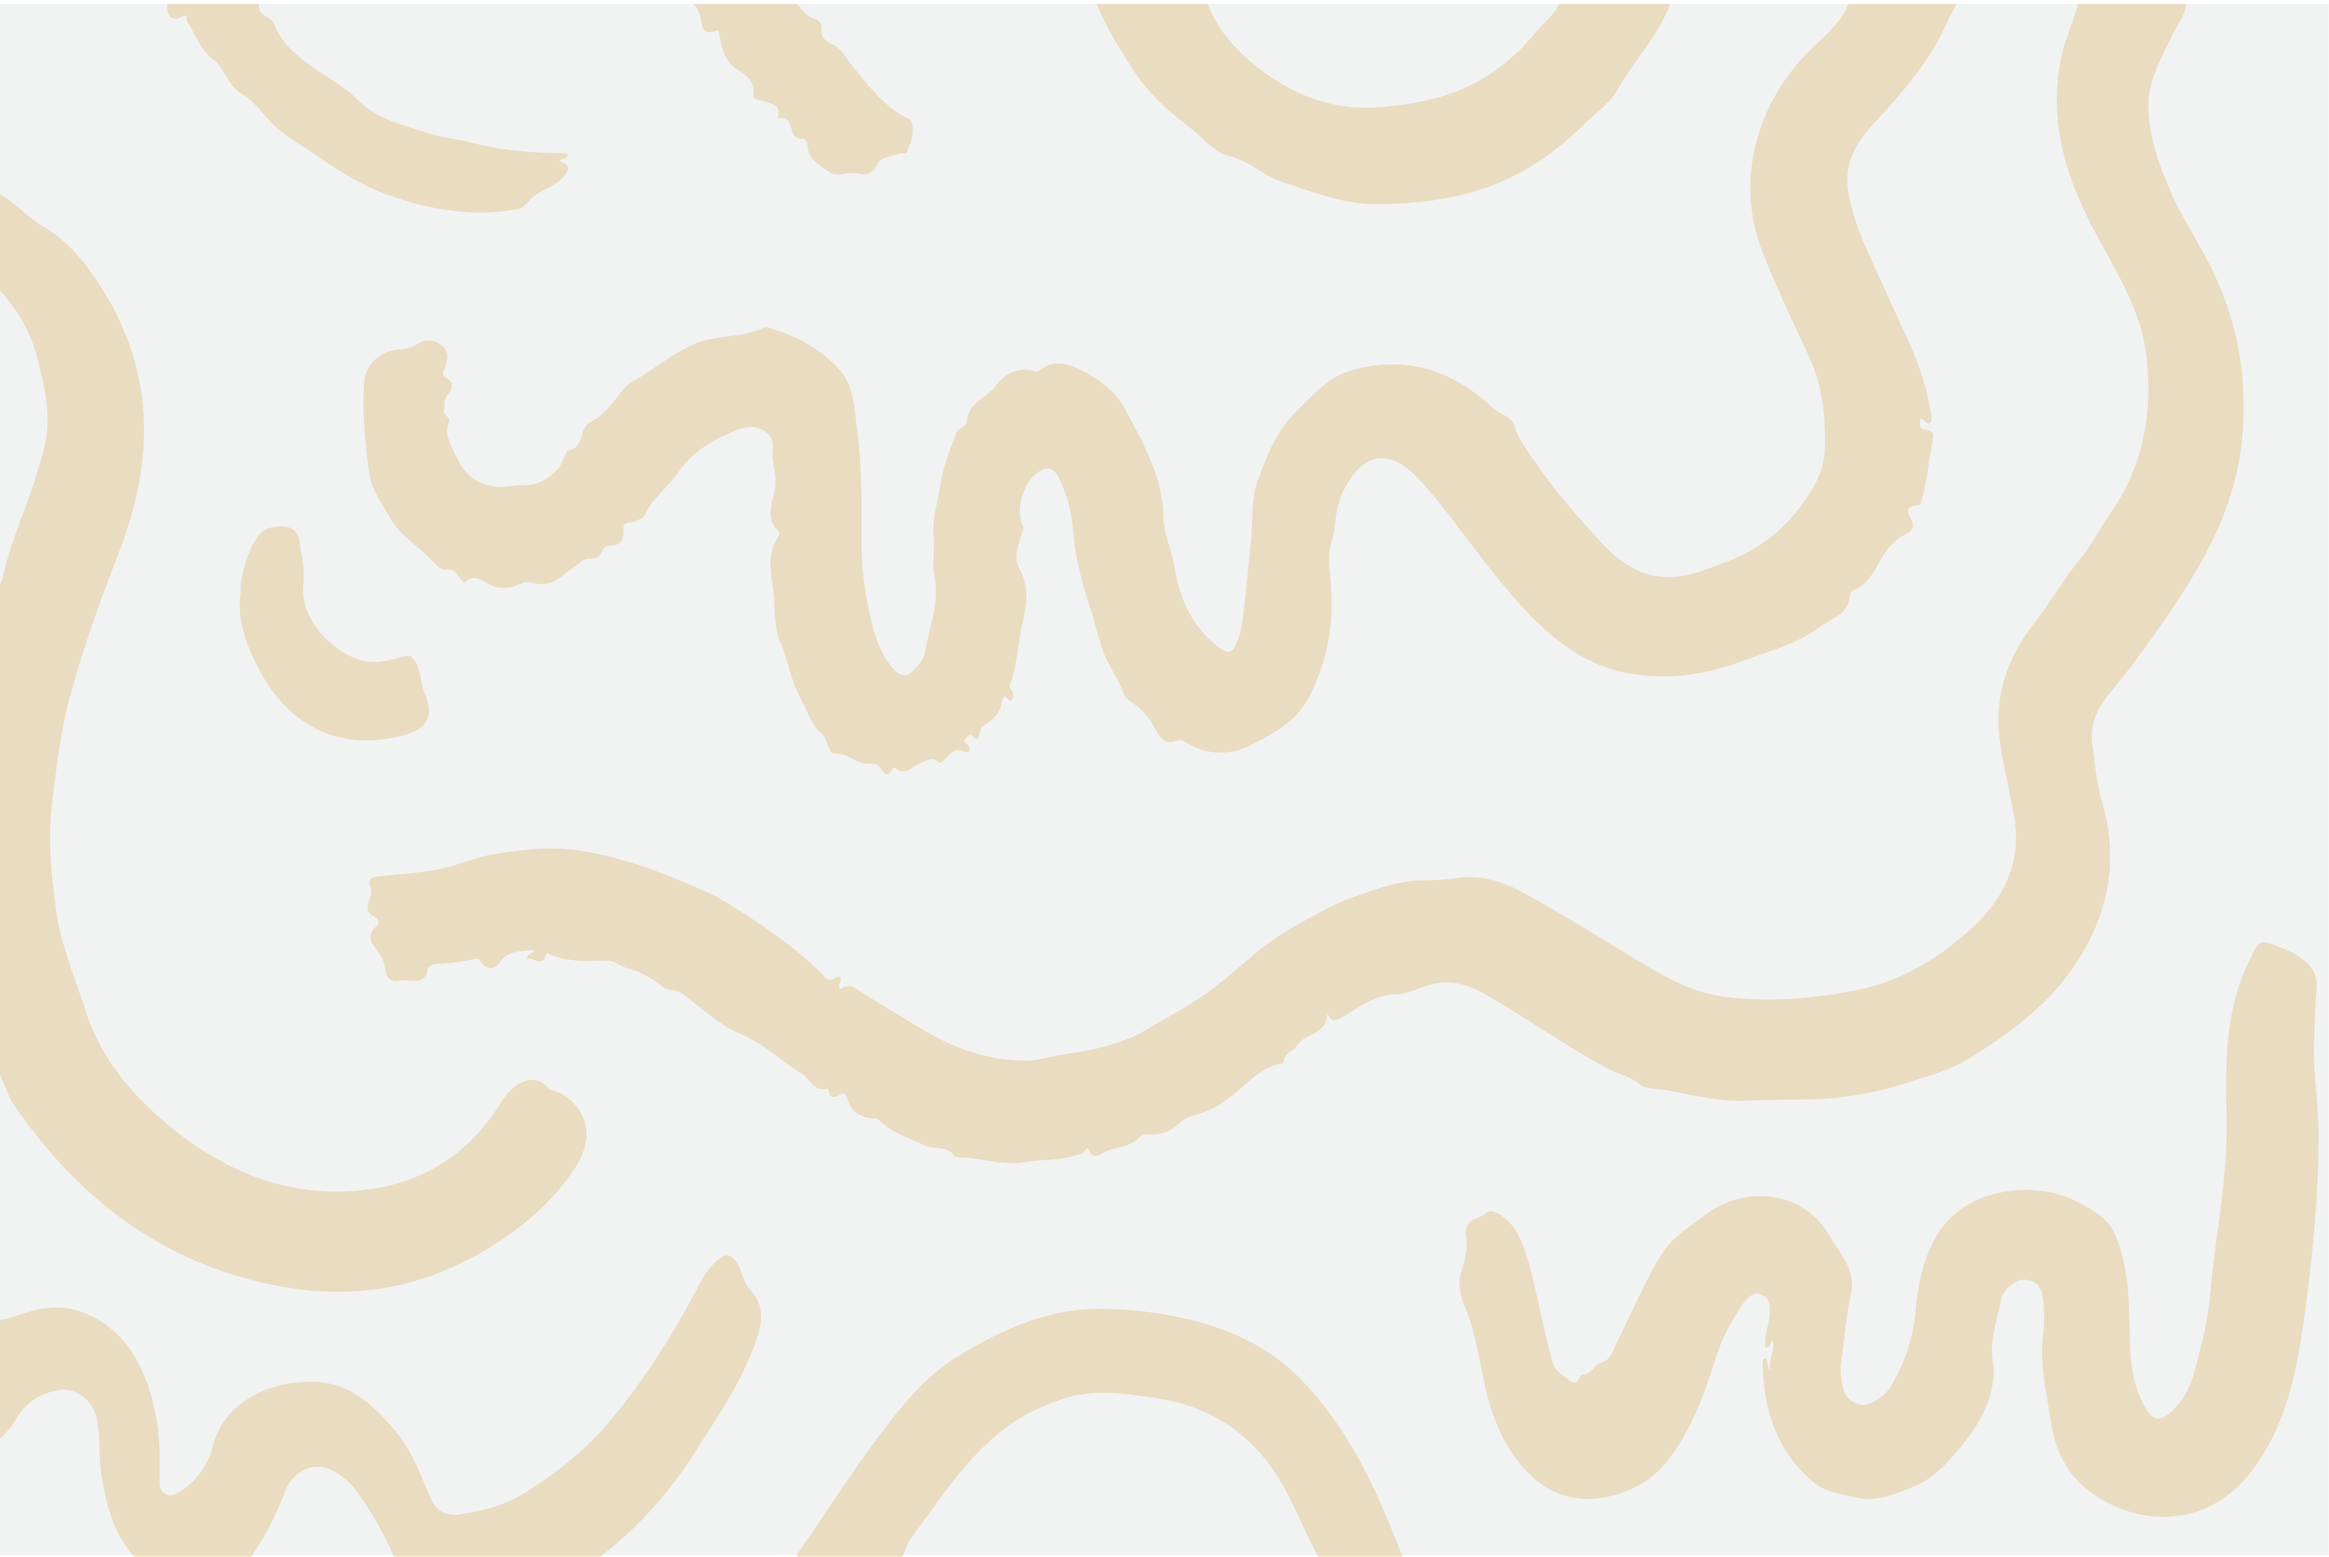
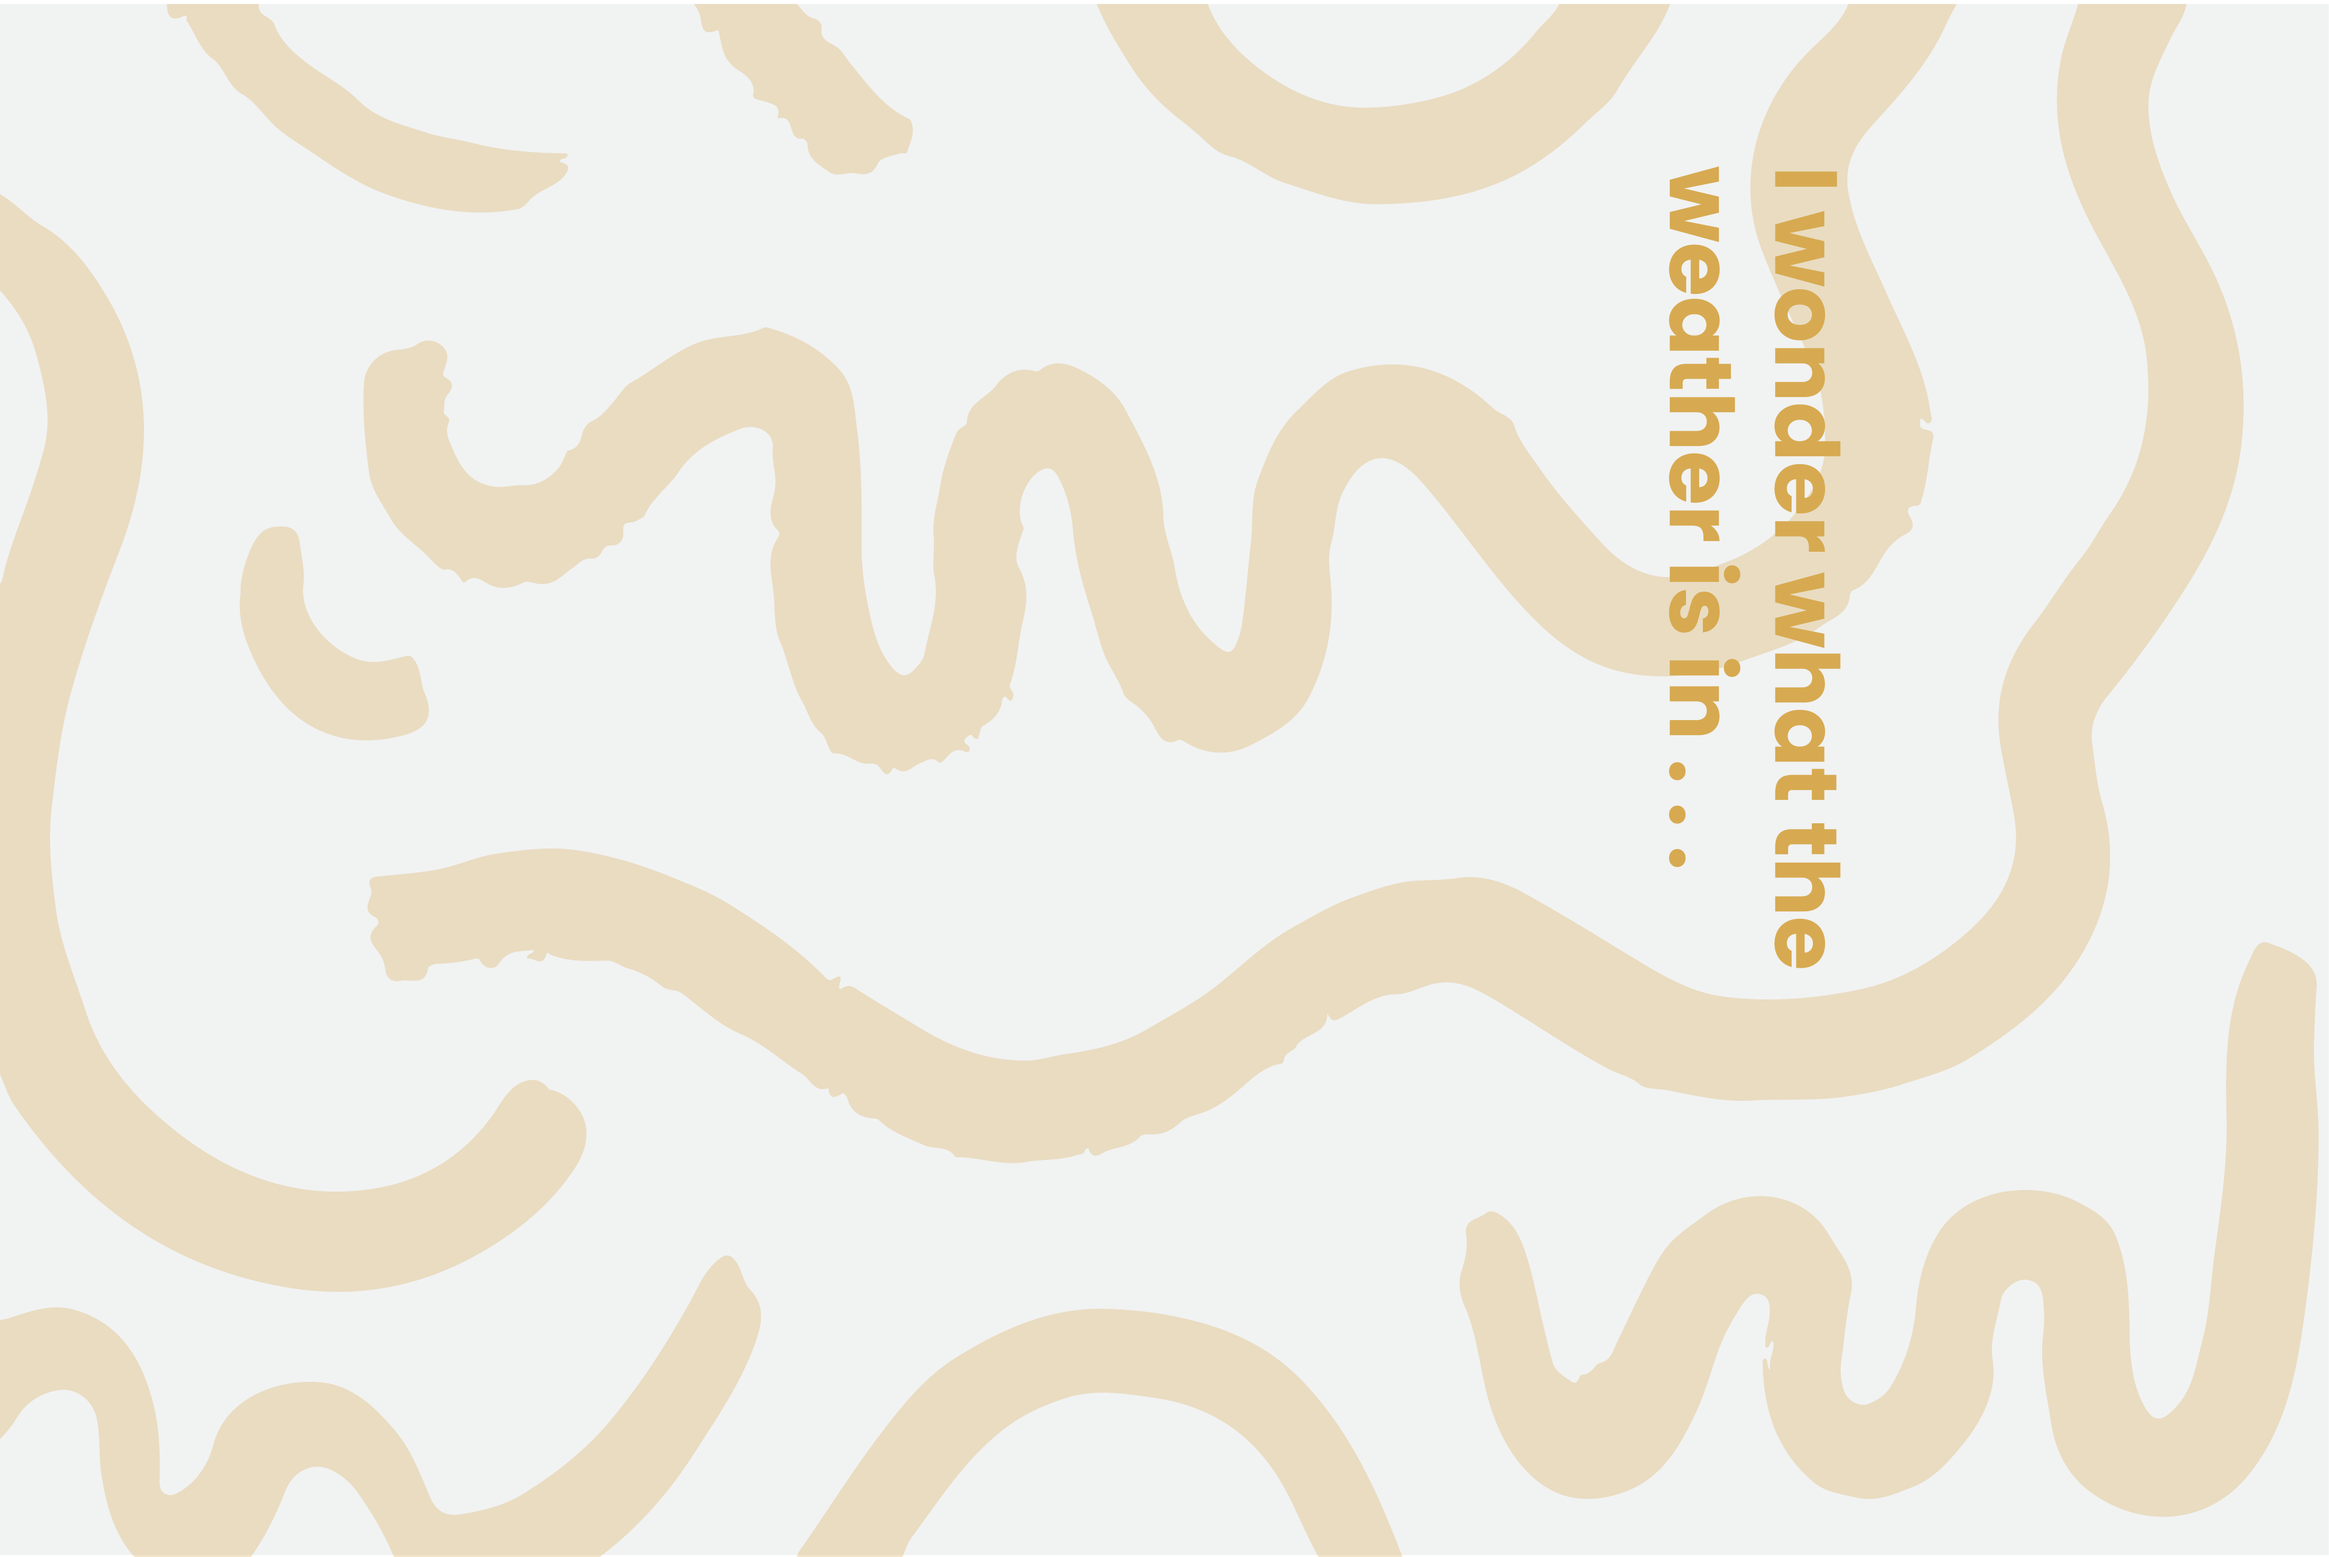
Updated background

Changed region(s): [[0.7157, 0.0938, 0.8091, 0.625]]

diff --git a/src/style.css b/src/style.css
@@ -2,17 +2,6 @@ body {
   background-image: url("../images/background2-01.png");
   background-size: cover;
 }
-h1 {
-  font-family: "Poppins", sans-serif;
-  color: #dfa73e;
-  font-weight: 700;
-  font-size: 50px;
-  position: absolute;
-  transform: rotate(90deg);
-  top: 250px;
-  left: 700px;
-  right: -60px;
-}
 
 .container {
   margin-top: 20px;

diff --git a/index.html b/index.html
@@ -26,7 +26,6 @@
     <script src="https://unpkg.com/axios/dist/axios.min.js"></script>
   </head>
   <body>
-    <h1>I wonder what the </br> weather is in . . .</h1>
     
     <div class="container">
       <form class="city-search" id=search>
